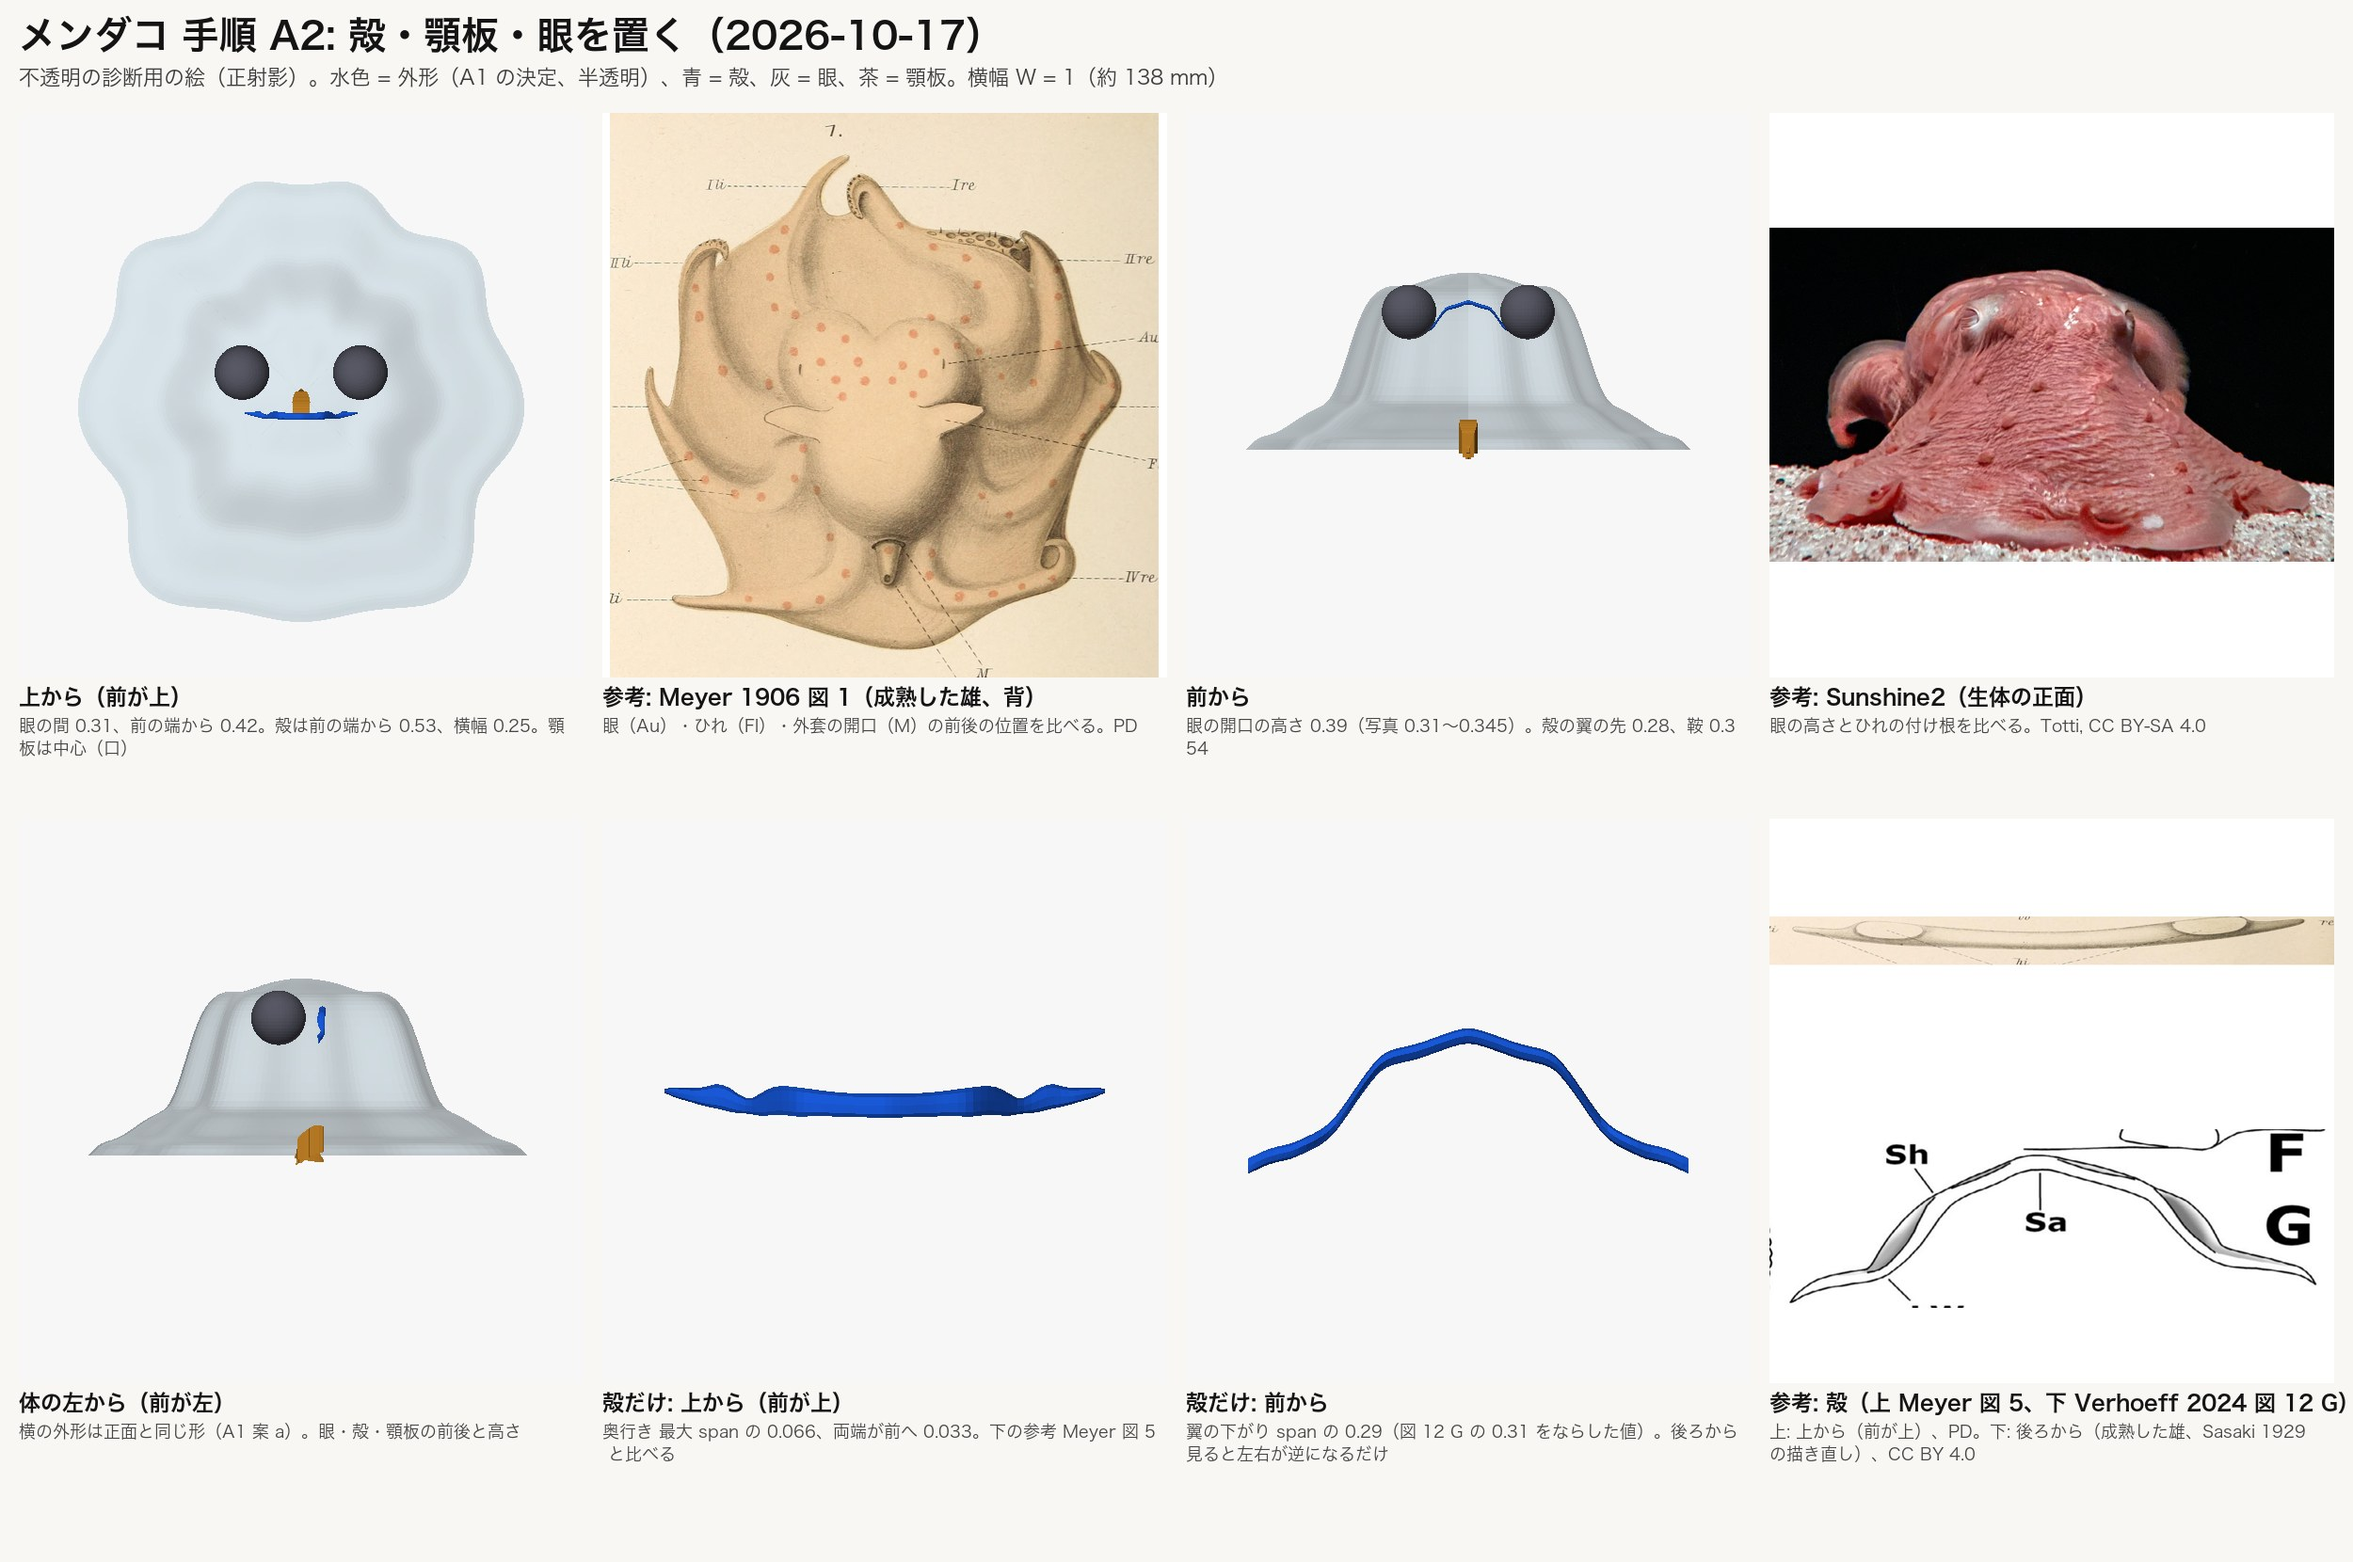
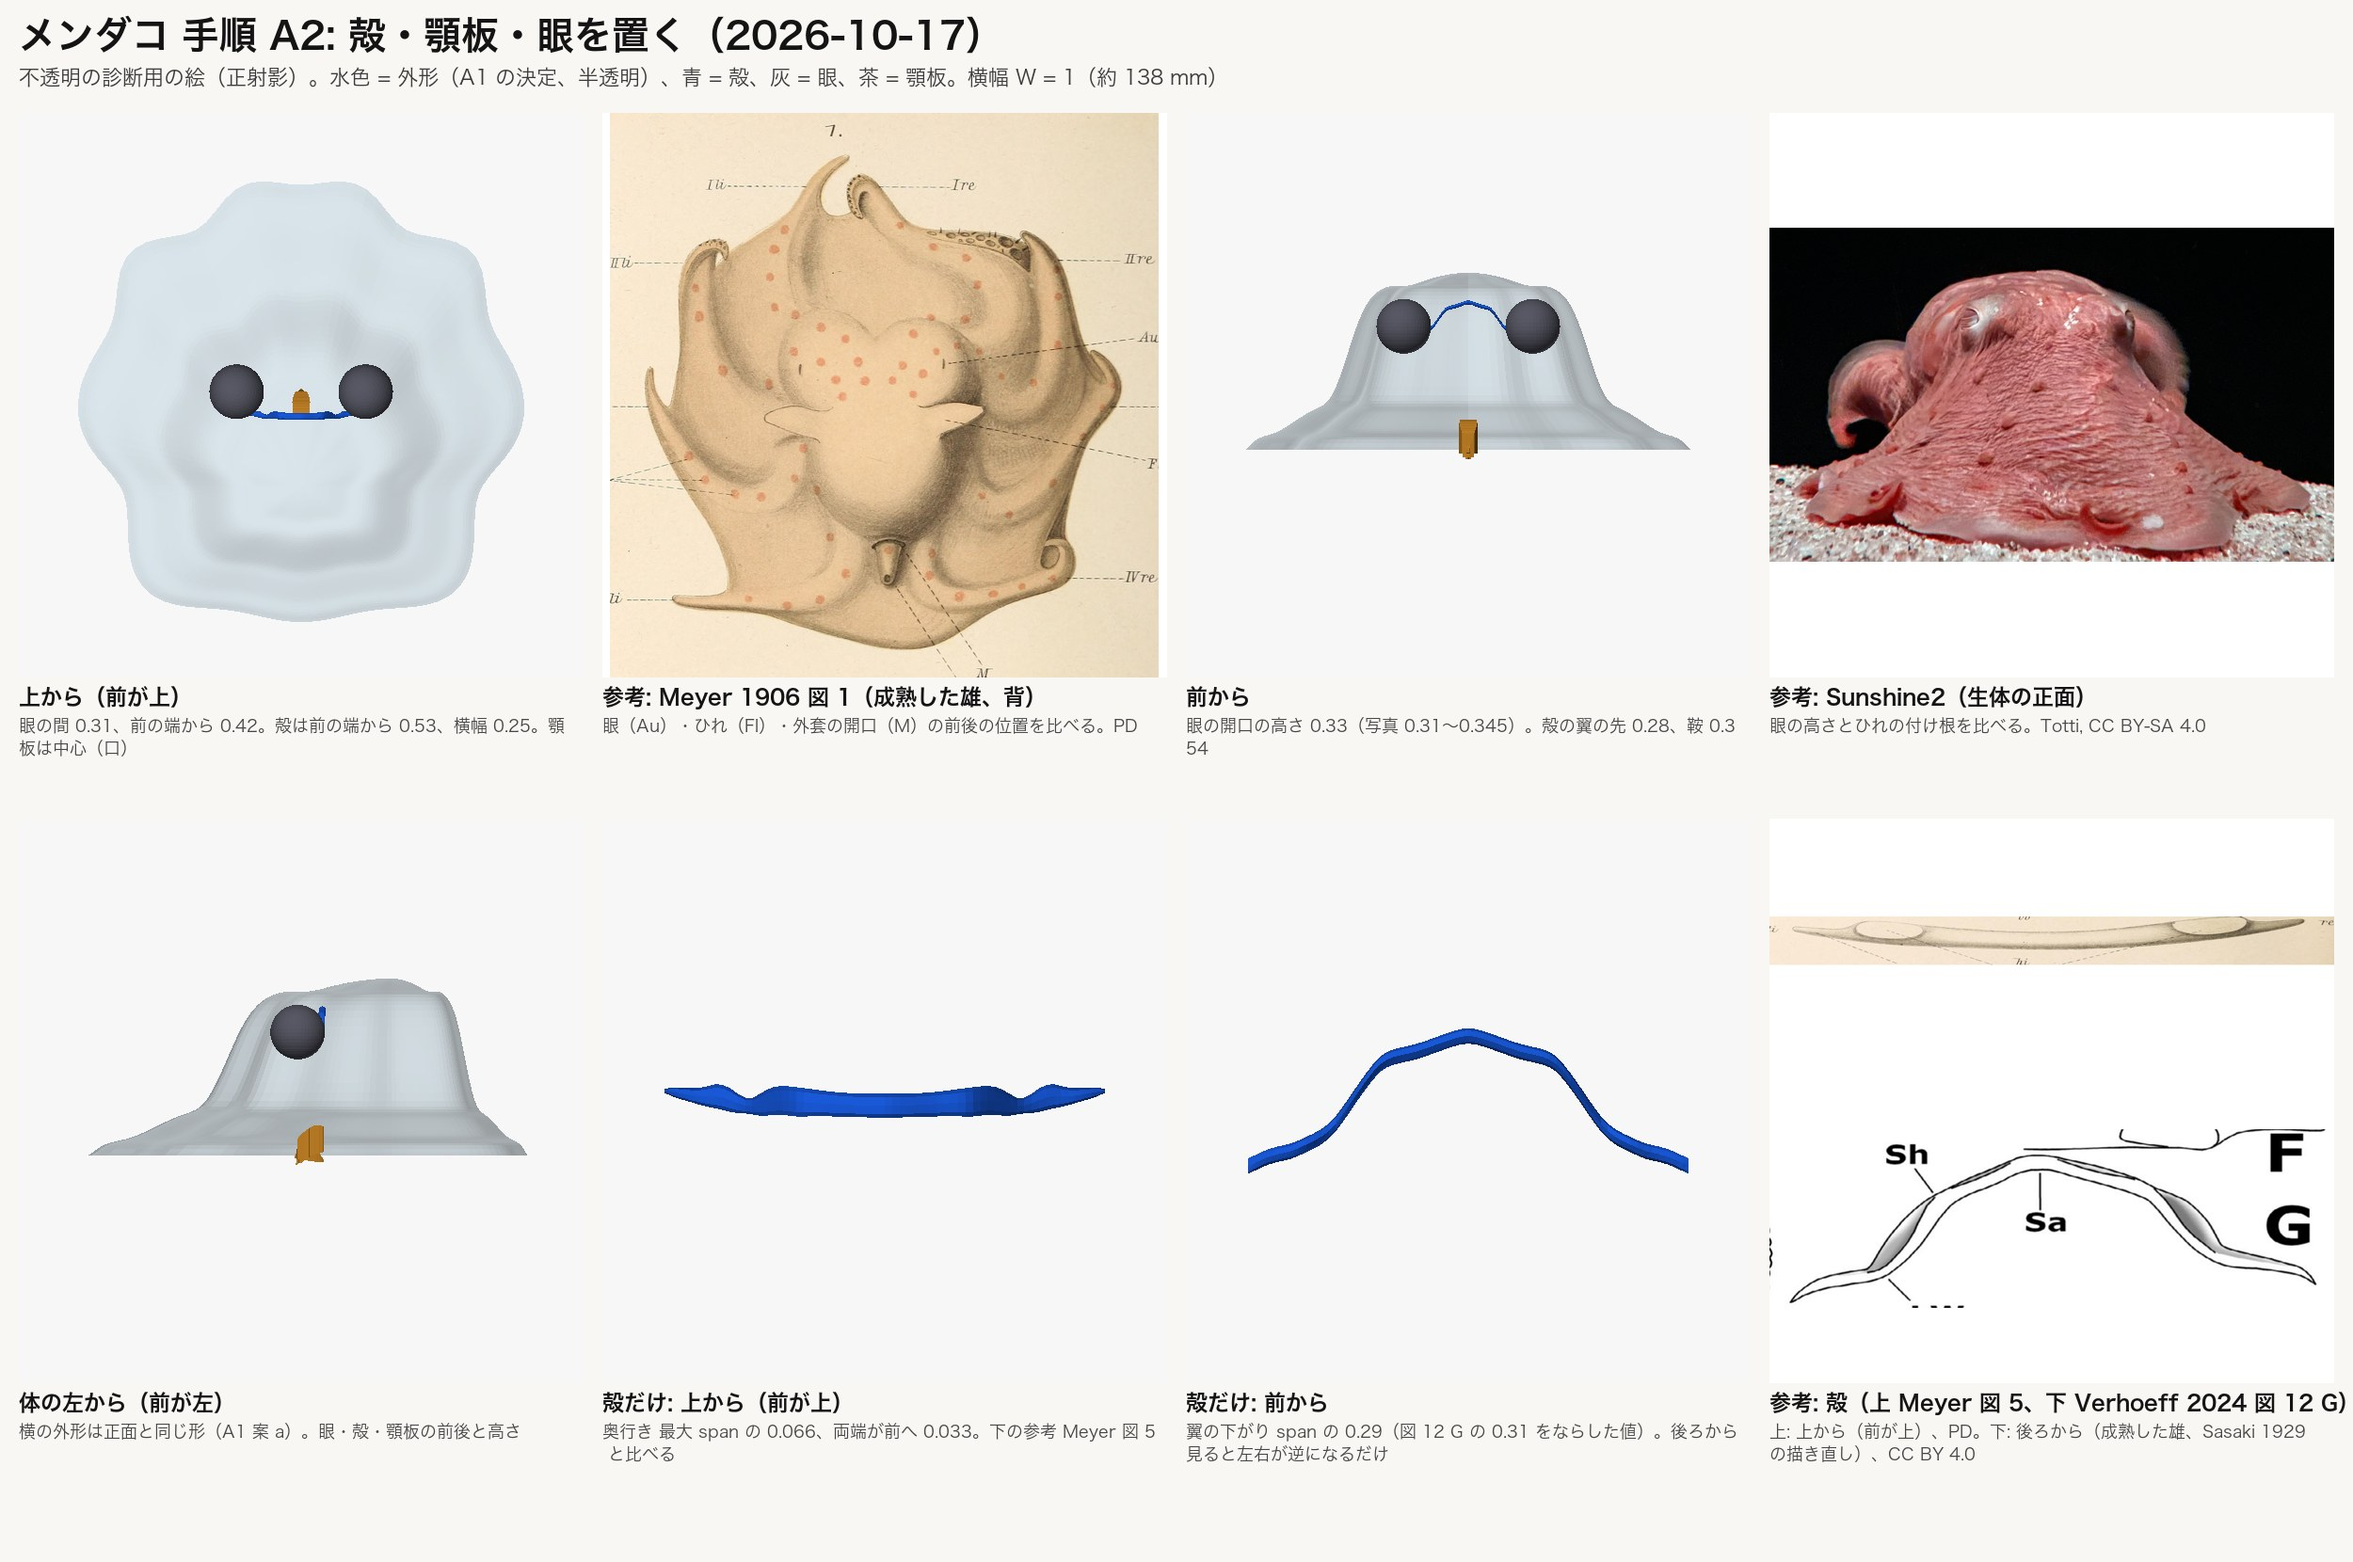
メンダコ: 横の線 C の決定を計画書に書き、外形の既定を頂のずらし 0.198 にして A2 の部品を作り直す

diff --git a/blender/mendako/a2_parts.py b/blender/mendako/a2_parts.py
@@ -51,6 +51,7 @@ G_LEFT = [(1480, 630), (1450, 670), (1420, 720), (1390, 765), (1330, 790), (1265
 G_RIGHT = [(1720, 625), (1780, 660), (1810, 700), (1840, 740), (1880, 765), (1940, 785), (1985, 805)]
 G_CX, G_SADDLE_Y, G_SPAN = 1625, 590, 720
 BEAK = dict(length=0.065)
+PEAK = 0.198   # 頭の頂を後ろへずらす量（W）。2026-10-17 プロデューサー決定「横の線は C」。頂は前の端から 0.69、眼の開口 0.33
 
 
 def font(size, bold=False):
@@ -63,7 +64,9 @@ def font(size, bold=False):
 class Body:
     """peak = 頭の頂（断面の高さの中心）を、上から見た輪郭の中心から後ろへずらす量（W）。0 が A1 案 a"""
 
-    def __init__(self, peak=0.0):
+    def __init__(self, peak=None):
+        if peak is None:
+            peak = PEAK
         L = json.load(open(os.path.join(OUT, "a1_outline_lines.json"), encoding="utf-8"))
         self.peak = peak
         self.th = np.radians(np.array(L["dorsal"]["theta_deg"]))

diff --git a/docs/メンダコ透明標本_計画書_v1.0.md b/docs/メンダコ透明標本_計画書_v1.0.md
@@ -16,7 +16,8 @@
 | 0 生物カード | 比率を 4 枚の図・写真で画素で測った（第 2.3 節、印の図 `docs/mendako/step0_ratio_marks.jpg`）。通し光は未測定 | 第 3 節を案の絵で聞く |
 | 0 決めること | 決まった（第 3.2 節）。色 A の目標は第 2.4 節 | — |
 | A1 外形の線 | 決まった（第 7 節、2026-10-17） | — |
-| A2 殻・顎板・眼を置く | 置いた（第 7 節 A2、2026-10-17）。眼の高さの食い違いの案の絵を作った | 横の線の案 A・B・C から選んでもらう |
+| A2 殻・顎板・眼を置く | 決まった（横の線 C、2026-10-17） | — |
+| A3 膜と腕 | 着手（2026-10-17） | 膜・腕・吸盤・触毛・ひれを作り、面の向き・開いた辺・凹凸を確かめる |
 
 ---
 
@@ -334,7 +335,7 @@
 
 まだ作っていないもの: 平衡石、頭の軟骨、ひれと鰓の軟骨（手順 A5）。顎板の左右の厚みは図に無いので、その列の高さの 0.6 倍の楔にした（A5 で見直す）。
 
-#### 眼の高さの食い違いの案（2026-10-17、選択待ち）
+#### 眼の高さの食い違いの案（2026-10-17、決定 C）
 
 プロデューサー「眼の高さの食い違いについて、いまの横の線、頭のいちばん高い所を後ろへずらした線などの案を並べた絵を作ってください。」
 
@@ -347,4 +348,7 @@
 | C 眼を写真に合わせる | 0.198 | 0.69 | 0.330 | 0.9 mm | 5.2 mm |
 
 分かったこと: 正面の線は頭の上が広く平ら（中心から横幅の ±0.4 ほど）なので、頂を少しずらしても眼はほとんど下がらない（d = 0.05 で 0.384、0.10 で 0.379）。写真の高さに届くのは、頂が前の端から 0.67〜0.69（眼と外套の開口 0.83 のあいだ）に来たとき。原記載 図 1（固定標本）の厚みのいちばん大きい所は 0.6〜0.625 で、B と C のあいだ。
+
+決定（2026-10-17、プロデューサー）: 「横の線は C（頂を前の端から 0.69 へ、眼を写真の高さに合わせる）にします。次の膜と腕を作る段に進んでください。」
+`a2_parts.py` の既定を PEAK = 0.198 にし、`a2_parts.json`・`a2_parts.jpg` を C で作り直した。
 
